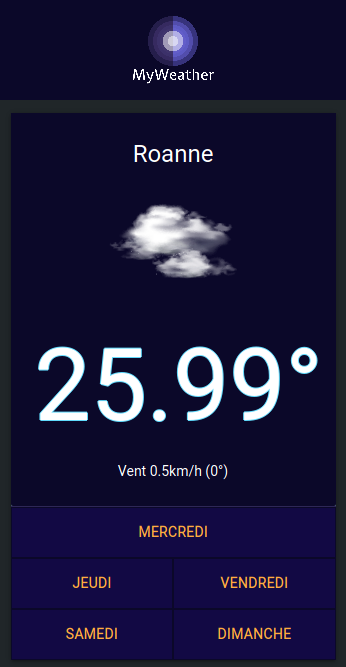
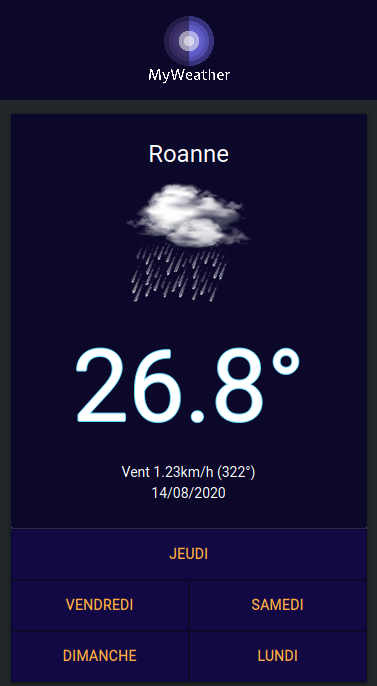
Transform timestamp to ms during data mapping, tidy up

diff --git a/js/dist/bundle.js b/js/dist/bundle.js
@@ -70,7 +70,7 @@ class WeatherNav extends HTMLElement {
         const days = WeatherNav._days.cloneNode(true);
         for (let i = 0, length = Math.min(timestamps.length, max); i < length; i++) {
             const button = WeatherNav._button.cloneNode(true);
-            button.textContent = new Date(timestamps[i] * 1000).toLocaleDateString(navigator.language, {
+            button.textContent = new Date(timestamps[i]).toLocaleDateString(navigator.language, {
                 weekday: 'long',
             });
             button.onclick = (e) => {
@@ -247,14 +247,6 @@ function newContext() {
             komrad_1.extend(context.pins, another_context);
             return context;
         },
-        _mergeWithSubs: function (subs) {
-            const length_old = context.subs.length;
-            const length_added = subs.length;
-            context.subs.length += length_added;
-            for (let i = 0; i < length_added; i++) {
-                context.subs[length_old + i] = subs[i];
-            }
-        },
         musterPubs: function (element) {
             var _a, _b, _c;
             const pub_nodes = [...element.querySelectorAll('[data-pub')];
@@ -265,7 +257,6 @@ function newContext() {
                 const target = (_b = pub_nodes[i].getAttribute('data-prop')) !== null && _b !== void 0 ? _b : 'textContent';
                 const initial_value = pub_nodes[i][target];
                 context.pub(source, newObservable(initial_value));
-                console.log(context.pins[source]);
                 subs[i] = {
                     source: context.pins[source] !== undefined ? context.pins[source] : source,
                     target: target,
@@ -273,7 +264,7 @@ function newContext() {
                     node: pub_nodes[i],
                 };
             }
-            context._mergeWithSubs(subs);
+            Array.prototype.push.apply(context.subs, subs);
             return context;
         },
         musterSubs: function (element) {
@@ -292,6 +283,9 @@ function newContext() {
             }
             Array.prototype.push.apply(context.subs, subs);
             return context;
+        },
+        muster: function (element) {
+            return context.musterPubs(element).musterSubs(element);
         },
         setSubs: function (subs) {
             context.subs = subs;
@@ -396,6 +390,7 @@ window.addEventListener('DOMContentLoaded', function (event) {
         view.pins.icon.set('icons/' + d.icon);
         view.pins.temp.set(`${d.temperature}°`);
         view.pins.wind.set(`Vent ${d.windSpeed}km/h (${d.windDeg}°)`);
+        view.pins.date.set(new Date(d.timestamp).toLocaleDateString(navigator.language));
         view.pins.loading.set('');
     };
     const weather_nav = document.querySelector('weather-nav');
@@ -410,16 +405,11 @@ window.addEventListener('DOMContentLoaded', function (event) {
         renderForecast(app.pins.forecasts.value, d);
     });
     const view = app_solo_1.newContext()
-        .pub('city', app_solo_1.newObservable('...'))
         .pub('icon', app_solo_1.newObservable(''))
-        .pub('wind', app_solo_1.newObservable('Vent ...km/h (...°)'))
-        .pub('date', app_solo_1.newObservable(new Date()))
-        .pub('day', app_solo_1.newObservable(0))
+        .pub('date', app_solo_1.newObservable(''))
         .pub('loading', app_solo_1.newObservable('loading'))
-        .musterPubs(weather)
-        .musterSubs(weather)
+        .muster(weather)
         .activateSubs();
-    console.log(view.pins);
 });
 
 },{"./components/img-spinner":1,"./components/weather-nav":2,"./geo":3,"./lib/app-solo":4,"./weather":7}],7:[function(require,module,exports){
@@ -455,7 +445,7 @@ function newForecast(loc, owm) {
         timezone: owm.timezone,
         timezoneOffset: owm.timezone_offset,
         current: {
-            timestamp: owm.current.dt,
+            timestamp: owm.current.dt * 1000,
             temperature: owm.current.temp,
             windSpeed: owm.current.wind_speed,
             windDeg: owm.current.wind_deg,
@@ -465,7 +455,7 @@ function newForecast(loc, owm) {
     };
     for (let i = 0, length = owm.daily.length; i < length; i++) {
         forecast.daily.push({
-            timestamp: owm.daily[i].dt,
+            timestamp: owm.daily[i].dt * 1000,
             temperature: owm.daily[i].temp.day,
             windSpeed: owm.daily[i].wind_speed,
             windDeg: owm.daily[i].wind_deg,

diff --git a/js/src/script.ts b/js/src/script.ts
@@ -45,18 +45,23 @@ window.addEventListener('DOMContentLoaded', function (event: Event) {
       console.log(err);
     });
   //----------------------------------------------- render functions ---
+  /** @todo Convert 'renderForecast' to web component */
   const renderForecast = function (f: Forecast, day: number): void {
     const d = day === 0 ? f.current : f.daily[Math.min(day, day_count)];
     view.pins.city.set(f.city);
     view.pins.icon.set('icons/' + d.icon);
     view.pins.temp.set(`${d.temperature}°`);
     view.pins.wind.set(`Vent ${d.windSpeed}km/h (${d.windDeg}°)`);
+    view.pins.date.set(
+      new Date(d.timestamp).toLocaleDateString(navigator.language)
+    );
     view.pins.loading.set('');
   };
 
   //------------------------------------------------------- contexts ---
   const weather_nav = <WeatherNav>document.querySelector('weather-nav');
   const weather = <HTMLElement>document.getElementById('Weather');
+
   const app = newContext()
     .pub('forecasts', newObservable<Forecast | null>(null), (f) => {
       renderForecast(f, 0);
@@ -71,27 +76,10 @@ window.addEventListener('DOMContentLoaded', function (event: Event) {
     });
 
   const view = newContext()
-    .pub('city', newObservable<string>('...'))
-    .pub(
-      'icon',
-      newObservable<string>(
-        ''
-      )
-    )
-    // .pub('temp', newObservable<string>('...°'))
-    .pub('wind', newObservable<string>('Vent ...km/h (...°)'))
-    .pub('date', newObservable<Date>(new Date()))
-    .pub('day', newObservable<number>(0))
+    .pub('icon', newObservable<string>(''))
+    .pub('date', newObservable<string>(''))
     .pub('loading', newObservable<string>('loading'))
-    .musterPubs(weather)
-    .musterSubs(weather)
-    .activateSubs()
-    // .refresh()
-    ;
-
-
-
-  console.log(view.pins);
-  // <WeatherDays>document.querySelector('weather-nav') ??
-  // new WeatherDays();
+    .muster(weather)
+    .activateSubs();
+  // .refresh()
 }); /* DOMContentLoaded */

diff --git a/js/lib/app-solo.js b/js/lib/app-solo.js
@@ -70,14 +70,6 @@ function newContext() {
             komrad_1.extend(context.pins, another_context);
             return context;
         },
-        _mergeWithSubs: function (subs) {
-            const length_old = context.subs.length;
-            const length_added = subs.length;
-            context.subs.length += length_added;
-            for (let i = 0; i < length_added; i++) {
-                context.subs[length_old + i] = subs[i];
-            }
-        },
         musterPubs: function (element) {
             var _a, _b, _c;
             const pub_nodes = [...element.querySelectorAll('[data-pub')];
@@ -88,7 +80,6 @@ function newContext() {
                 const target = (_b = pub_nodes[i].getAttribute('data-prop')) !== null && _b !== void 0 ? _b : 'textContent';
                 const initial_value = pub_nodes[i][target];
                 context.pub(source, newObservable(initial_value));
-                console.log(context.pins[source]);
                 subs[i] = {
                     source: context.pins[source] !== undefined ? context.pins[source] : source,
                     target: target,
@@ -96,7 +87,7 @@ function newContext() {
                     node: pub_nodes[i],
                 };
             }
-            context._mergeWithSubs(subs);
+            Array.prototype.push.apply(context.subs, subs);
             return context;
         },
         musterSubs: function (element) {
@@ -115,6 +106,9 @@ function newContext() {
             }
             Array.prototype.push.apply(context.subs, subs);
             return context;
+        },
+        muster: function (element) {
+            return context.musterPubs(element).musterSubs(element);
         },
         setSubs: function (subs) {
             context.subs = subs;

diff --git a/js/script.js b/js/script.js
@@ -36,6 +36,7 @@ window.addEventListener('DOMContentLoaded', function (event) {
         view.pins.icon.set('icons/' + d.icon);
         view.pins.temp.set(`${d.temperature}°`);
         view.pins.wind.set(`Vent ${d.windSpeed}km/h (${d.windDeg}°)`);
+        view.pins.date.set(new Date(d.timestamp).toLocaleDateString(navigator.language));
         view.pins.loading.set('');
     };
     const weather_nav = document.querySelector('weather-nav');
@@ -50,14 +51,9 @@ window.addEventListener('DOMContentLoaded', function (event) {
         renderForecast(app.pins.forecasts.value, d);
     });
     const view = app_solo_1.newContext()
-        .pub('city', app_solo_1.newObservable('...'))
         .pub('icon', app_solo_1.newObservable(''))
-        .pub('wind', app_solo_1.newObservable('Vent ...km/h (...°)'))
-        .pub('date', app_solo_1.newObservable(new Date()))
-        .pub('day', app_solo_1.newObservable(0))
+        .pub('date', app_solo_1.newObservable(''))
         .pub('loading', app_solo_1.newObservable('loading'))
-        .musterPubs(weather)
-        .musterSubs(weather)
+        .muster(weather)
         .activateSubs();
-    console.log(view.pins);
 });

diff --git a/index.html b/index.html
@@ -39,8 +39,8 @@
               <div class="card-content white-text">
                 <span
                   class="card-title"
-                  data-sub="city"
-                ></span>
+                  data-pub="city"
+                >...</span>
                 <!-- <p data-sub="loading" data-prop="className"> -->
                 <p>
                   <img
@@ -58,8 +58,12 @@
                 </span>
                 <div
                   class="wind"
-                  data-sub="wind"
-                ></div>
+                  data-pub="wind"
+                >Vent ...km/h (...°)</div>
+                <div
+                  class="date"
+                  data-sub="date"
+                >...</div>
               </div>
               <!-- <div class="card-action day-nav">
                 <a href="#" style="font-weight: bold;">Now</a>

diff --git a/js/src/weather.ts b/js/src/weather.ts
@@ -63,7 +63,7 @@ export function newForecast(loc: GeoInfo, owm: OWMOneCallResponse): Forecast {
     timezone: owm.timezone,
     timezoneOffset: owm.timezone_offset,
     current: {
-      timestamp : owm.current.dt,
+      timestamp : owm.current.dt * 1000,
       temperature: owm.current.temp,
       windSpeed: owm.current.wind_speed,
       windDeg: owm.current.wind_deg,
@@ -74,7 +74,7 @@ export function newForecast(loc: GeoInfo, owm: OWMOneCallResponse): Forecast {
 
   for (let i = 0, length = owm.daily.length; i < length; i++) {
     forecast.daily.push({
-      timestamp : owm.daily[i].dt,
+      timestamp : owm.daily[i].dt * 1000,
       temperature: owm.daily[i].temp.day,
       windSpeed: owm.daily[i].wind_speed,
       windDeg: owm.daily[i].wind_deg,

diff --git a/js/weather.js b/js/weather.js
@@ -30,7 +30,7 @@ function newForecast(loc, owm) {
         timezone: owm.timezone,
         timezoneOffset: owm.timezone_offset,
         current: {
-            timestamp: owm.current.dt,
+            timestamp: owm.current.dt * 1000,
             temperature: owm.current.temp,
             windSpeed: owm.current.wind_speed,
             windDeg: owm.current.wind_deg,
@@ -40,7 +40,7 @@ function newForecast(loc, owm) {
     };
     for (let i = 0, length = owm.daily.length; i < length; i++) {
         forecast.daily.push({
-            timestamp: owm.daily[i].dt,
+            timestamp: owm.daily[i].dt * 1000,
             temperature: owm.daily[i].temp.day,
             windSpeed: owm.daily[i].wind_speed,
             windDeg: owm.daily[i].wind_deg,

diff --git a/playground/bench_dom_update.js b/playground/bench_dom_update.js
@@ -131,3 +131,39 @@ suite
 // document.body.appendChild(f3);
 
 
+
+const count = 1000;
+const c = Array(count);
+for(let i = 0; i <count; i++){
+  c[i] = i;
+}
+
+const a = [1, 2, 3, 4, 5];
+const b = [6, 7, 8, 9, 10];
+
+function merge(a, b) {
+  const length_old = a.length;
+  const length_added = b.length;
+  a.length += length_added;
+  for (let i = 0; i < length_added; i++) {
+    a[length_old + i] = b[i];
+  } 
+}
+
+console.log(a);
+console.log(b);
+console.log(c);
+
+Array.prototype.push.apply(a, b);
+Array.prototype.push.apply(c, b);
+Array.prototype.push.apply(b, c);
+Array.prototype.push.apply(c, c);
+
+merge(a, b);
+merge(c, b);
+merge(b, c);
+merge(c, c);
+
+console.log(a);
+console.log(b);
+console.log(c);

diff --git a/js/components/weather-nav.js b/js/components/weather-nav.js
@@ -21,7 +21,7 @@ class WeatherNav extends HTMLElement {
         const days = WeatherNav._days.cloneNode(true);
         for (let i = 0, length = Math.min(timestamps.length, max); i < length; i++) {
             const button = WeatherNav._button.cloneNode(true);
-            button.textContent = new Date(timestamps[i] * 1000).toLocaleDateString(navigator.language, {
+            button.textContent = new Date(timestamps[i]).toLocaleDateString(navigator.language, {
                 weekday: 'long',
             });
             button.onclick = (e) => {

diff --git a/js/src/components/weather-nav.ts b/js/src/components/weather-nav.ts
@@ -36,7 +36,7 @@ export class WeatherNav extends HTMLElement {
     for (let i = 0, length = Math.min(timestamps.length, max); i < length; i++) {
       const button = <HTMLElement>WeatherNav._button.cloneNode(true);
       button.textContent = new Date(
-        timestamps[i] * 1000
+        timestamps[i] // * 1000
       ).toLocaleDateString(navigator.language, {
         weekday: 'long',
       });
